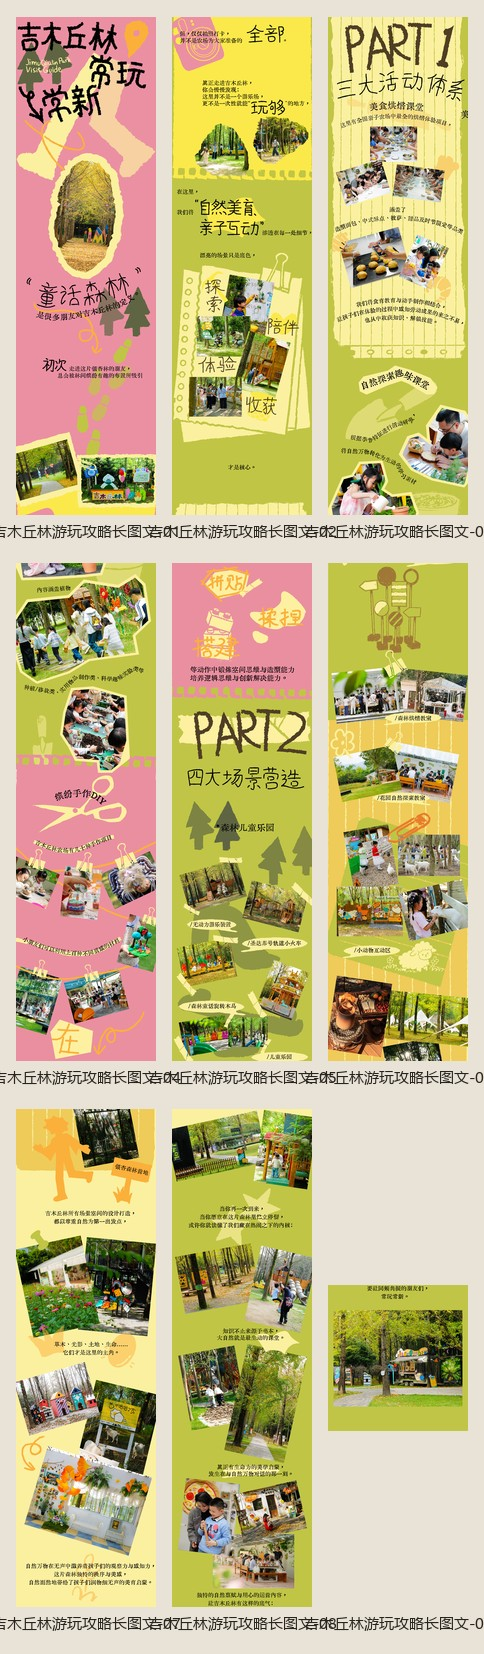
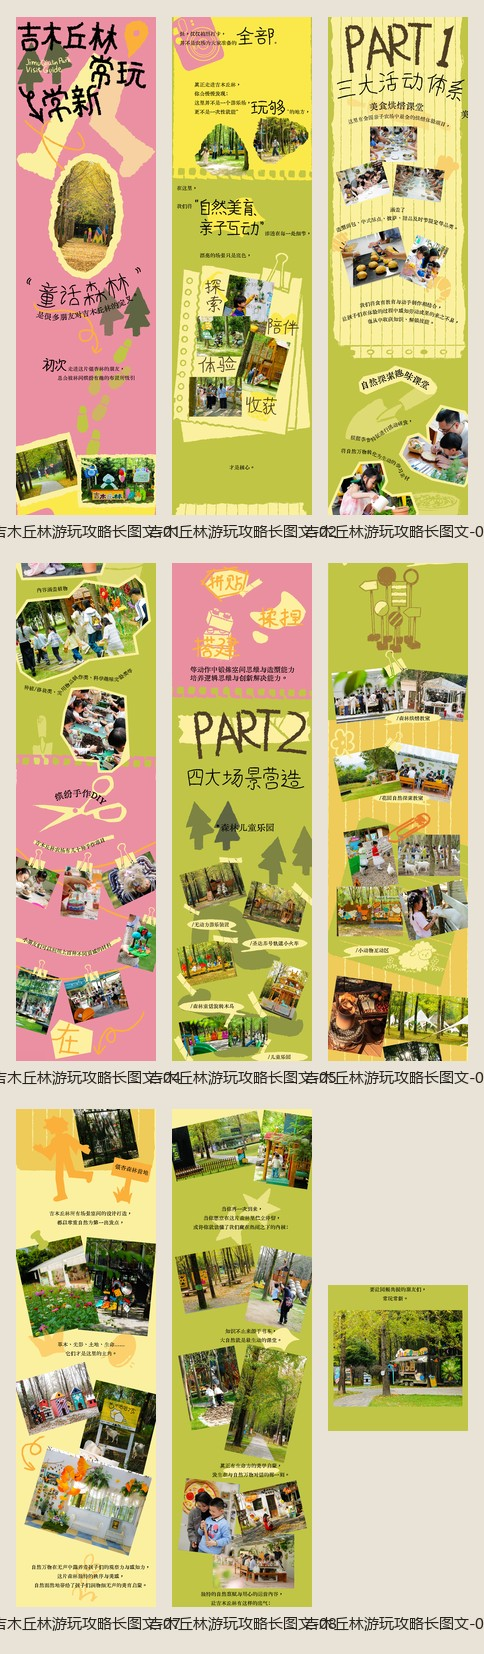
Refresh play guide from latest version 2 update

diff --git a/index.html b/index.html
@@ -34,13 +34,13 @@
   <header>
     <div class="brand"><strong>吉木丘林 · 游玩攻略</strong><span>9 张连续长图 · 建议上下滑动阅读</span></div>
     <div class="actions">
-      <a href="./assets/guide-long-web.jpg?v=20261113-120014" target="_blank" rel="noopener">查看长图</a>
-      <a href="./assets/guide-long-web.jpg?v=20261113-120014" download>下载长图</a>
+      <a href="./assets/guide-long-web.jpg?v=20261113-121731" target="_blank" rel="noopener">查看长图</a>
+      <a href="./assets/guide-long-web.jpg?v=20261113-121731" download>下载长图</a>
     </div>
   </header>
   <main>
-    <div class="stage" id="stage"><img id="longImage" src="./assets/guide-long-web.jpg?v=20261113-120014" alt="吉木丘林游玩攻略连续长图"></div>
-    <p class="tip">共 9 页，已按文件名顺序无缝拼接<br>1,080 × 31,845 px 网页版长图<br>更新于 2026-11-13 12:00</p>
+    <div class="stage" id="stage"><img id="longImage" src="./assets/guide-long-web.jpg?v=20261113-121731" alt="吉木丘林游玩攻略连续长图"></div>
+    <p class="tip">共 9 页，已按文件名顺序无缝拼接<br>1,080 × 31,845 px 网页版长图<br>更新于 2026-11-13 12:17</p>
   </main>
   <div class="zoom" aria-label="缩放控制">
     <button type="button" id="minus" aria-label="缩小">−</button>
